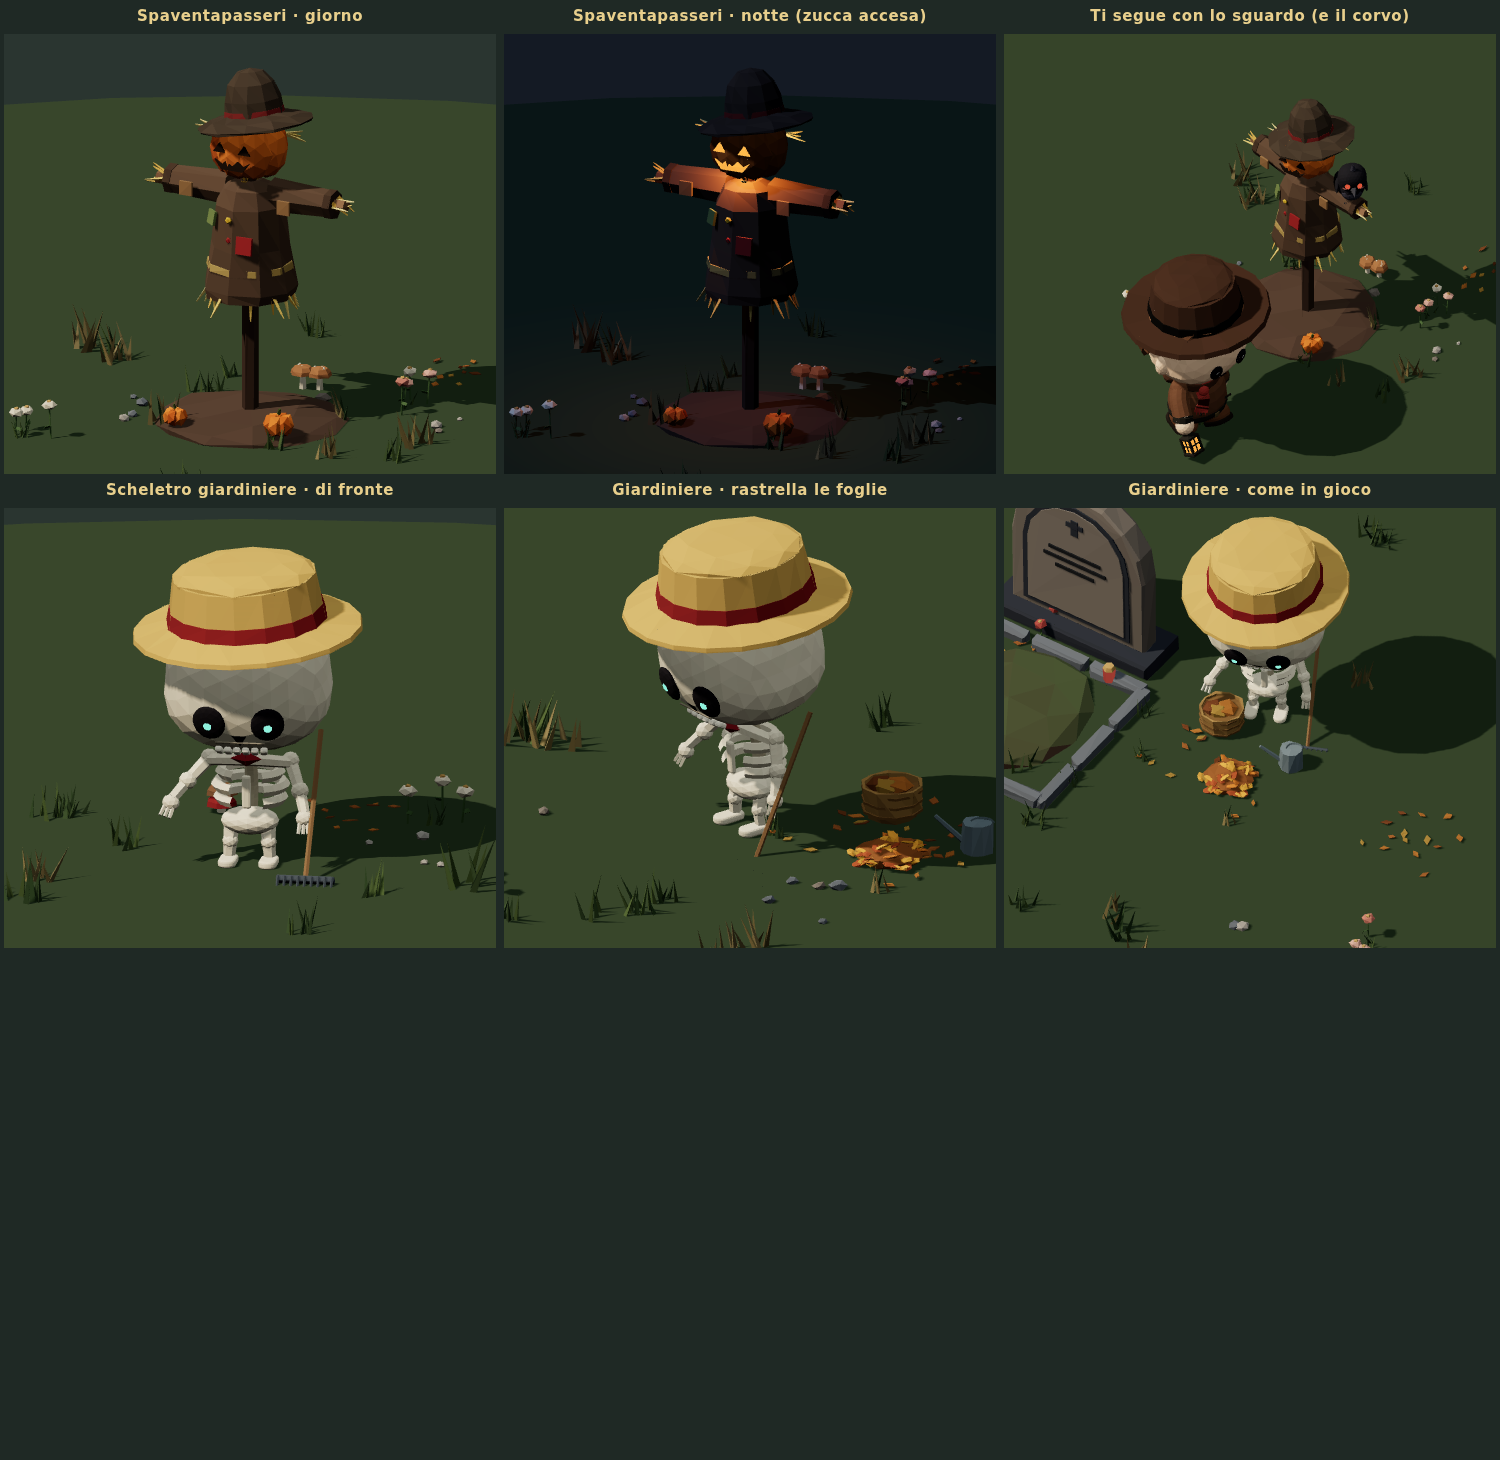
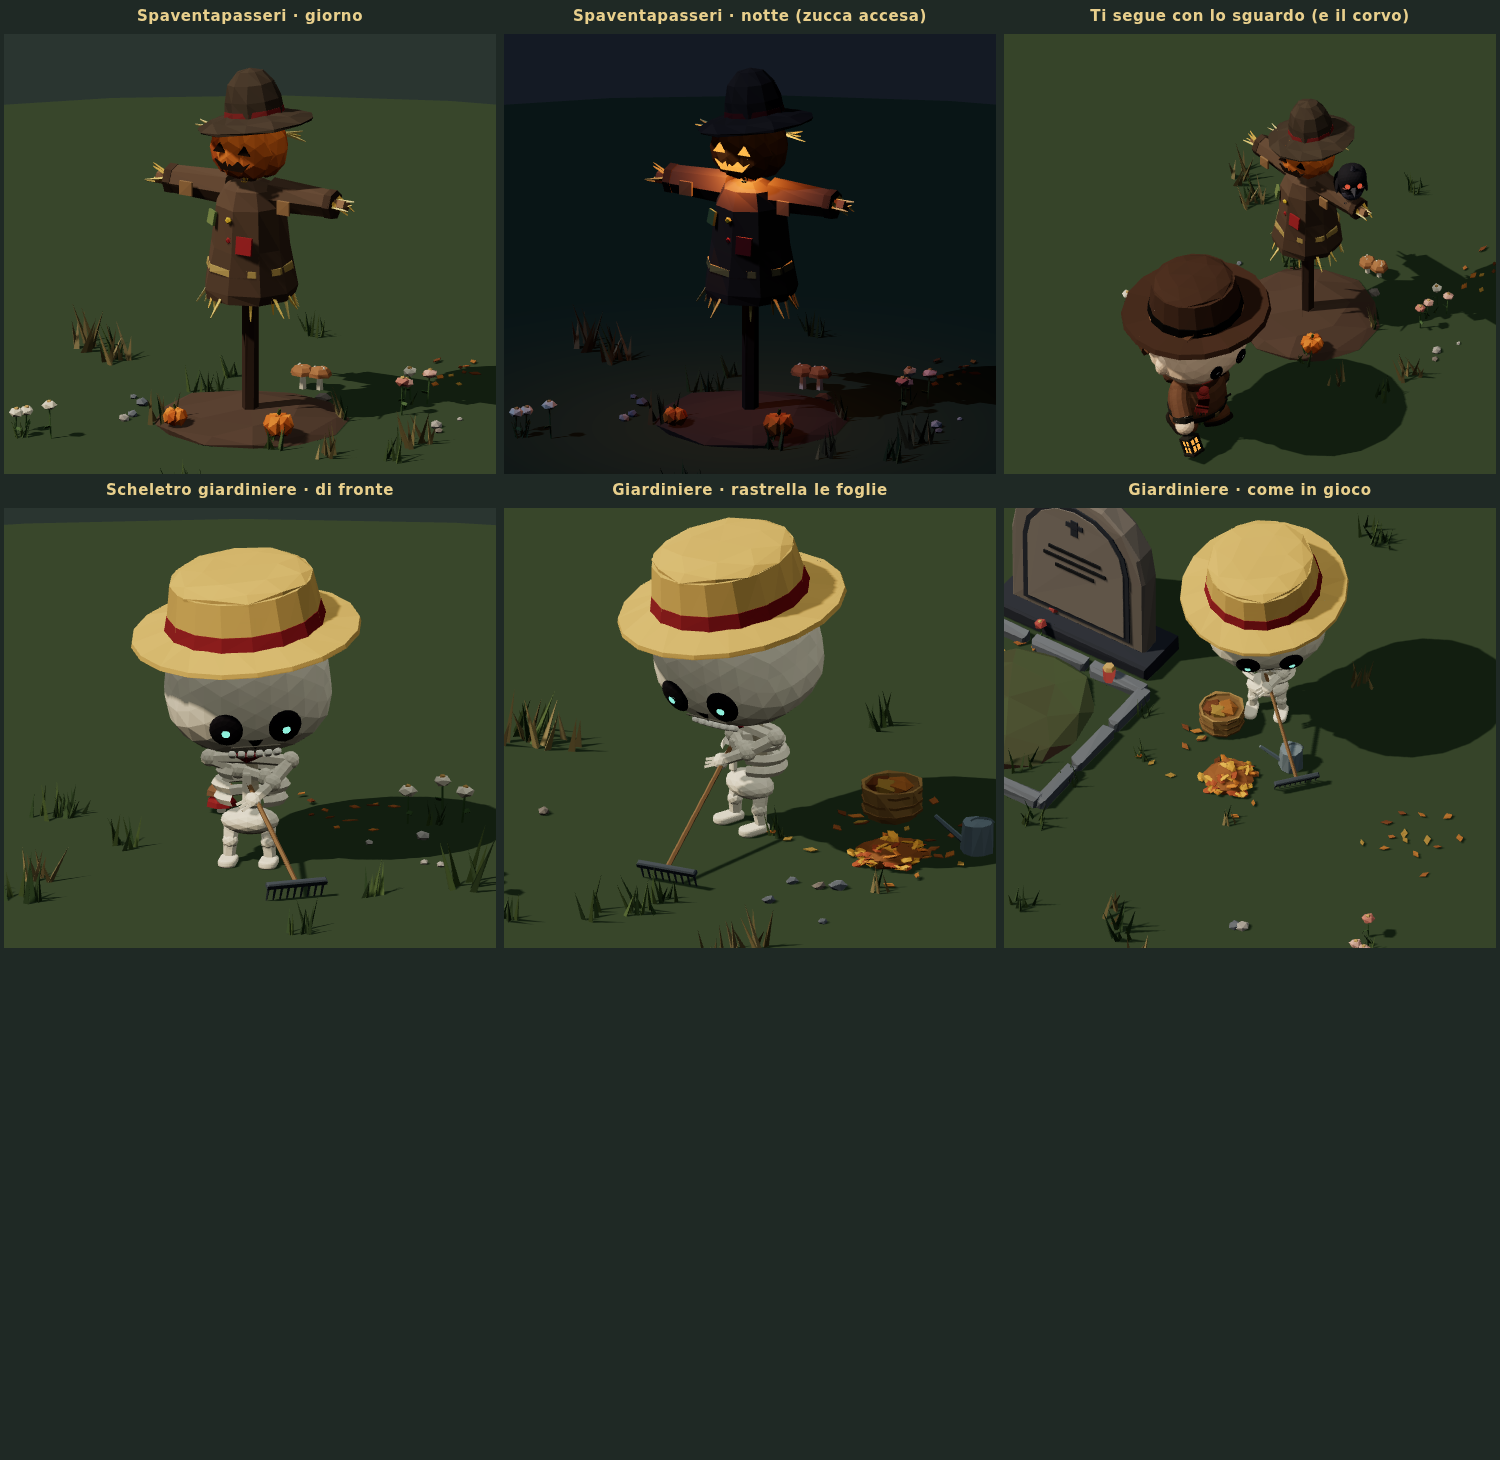
Anteprima giardiniere: rastrello impugnato a due mani, di lato, col pettine a terra
Claude-Session: https://claude.ai/code/session_01U6u5RojYrwYjZd8sSRU7em

diff --git a/Prototype-3d/src/proto/items.ts b/Prototype-3d/src/proto/items.ts
@@ -365,15 +365,35 @@ function scarecrow(lit: boolean, headYaw = 0, crow = false): THREE.Group {
   return group(s, lawn(0.7, 1.5, 12, 51));
 }
 
-/** Scheletro giardiniere in posa da rastrello (braccia avanti, busto chino). */
+/** Il braccio (perno `pv`, mano a riposo in `rest`) ruota per portare la mano sul segmento G→T del manico. */
+function reach(arm: THREE.Object3D, pv: THREE.Vector3, rest: THREE.Vector3, G: THREE.Vector3, T: THREE.Vector3, far: boolean) {
+  const len = rest.distanceTo(pv), d = T.clone().sub(G), f = G.clone().sub(pv);
+  const A = d.dot(d), B = 2 * f.dot(d), C = f.dot(f) - len * len, disc = B * B - 4 * A * C;
+  const sRoot = disc >= 0 ? (-B + (far ? 1 : -1) * Math.sqrt(disc)) / (2 * A) : -B / (2 * A);
+  const target = G.clone().addScaledVector(d, THREE.MathUtils.clamp(sRoot, 0, 1));
+  arm.quaternion.setFromUnitVectors(rest.clone().sub(pv).normalize(), target.sub(pv).normalize());
+}
+
+/**
+ * Scheletro giardiniere che rastrella: il pettine a terra davanti e di lato,
+ * il manico sale verso il fianco; la destra lo tiene in basso, la sinistra in alto.
+ * `t` è la fase del gesto (il pettine va avanti e torna).
+ */
 function gardener(t = 0): THREE.Group {
   const a = assemble(gardenerSpec(), 'giardiniere');
   const inner = a.root.children[0];
   const parts: Record<string, THREE.Object3D> = {};
   Object.keys(HUMAN_PIVOTS).forEach((k, i) => { parts[k] = inner.children[i]; });
-  const sw = Math.sin(t) * 0.25;
-  parts.armR.rotation.x = -0.3 + sw; parts.armL.rotation.x = -0.45 + sw; parts.armL.rotation.z = -0.3;
-  parts.head.rotation.x = 0.15; parts.body.rotation.x = 0.08;
+  const sw = Math.sin(t) * 0.09;
+  const G = new THREE.Vector3(0.3, 0.075, 0.62 + sw), T = new THREE.Vector3(-0.02, 0.4, 0.04 + sw * 0.4);
+  const y = T.clone().sub(G).normalize(), x = new THREE.Vector3().crossVectors(y, new THREE.Vector3(0, 1, 0)).normalize(), z = new THREE.Vector3().crossVectors(x, y);
+  const rake = inst(S.rakeLP(G.distanceTo(T) + 0.14));
+  rake.position.copy(G); rake.quaternion.setFromRotationMatrix(new THREE.Matrix4().makeBasis(x, y, z));
+  inner.add(rake);
+  const pv = (k: 'armL' | 'armR') => new THREE.Vector3(...HUMAN_PIVOTS[k]);
+  reach(parts.armR, pv('armR'), handPos(1), G, T, false);
+  reach(parts.armL, pv('armL'), handPos(-1), G, T, true);
+  parts.head.rotation.x = 0.2; parts.head.rotation.y = 0.25;
   return a.root;
 }
 

diff --git a/Prototype-3d/src/render/lowpoly/v2/npc.ts b/Prototype-3d/src/render/lowpoly/v2/npc.ts
@@ -248,20 +248,11 @@ const skeleton = (look: Partial<CustodeLook> = {}, extra: V2Extra = {}) => human
   },
 );
 
-/** Rastrello in mano (spazio della mano): manico lungo verso il basso, pettine di denti a terra. */
-function rake(lp: LP) {
-  lp.push([0, 0, 0.02], 0, -0.4);
-  lp.cyl(0, -0.3, 0, 0.012, 0.012, 0.72, 5, '#8a6a48', O);
-  lp.add(rbox(0.26, 0.03, 0.035, 0.008, 1).translate(0, -0.3, 0), '#4a535c', O);
-  for (let i = -4; i <= 4; i++) lp.add(new THREE.CylinderGeometry(0.007, 0.005, 0.09, 4).translate(i * 0.03, -0.34, 0.02), '#4a535c', O);
-  lp.pop();
-}
-
-/** Scheletro giardiniere: cappello di paglia, fazzoletto al collo, rastrello. */
+/** Scheletro giardiniere: cappello di paglia e papillon. */
 export function gardenerSpec(): KawaiiSpec {
   return skeleton(
     {},
-    { name: 'giardiniere', hat: (lp) => strawHat(lp), hatPh: 40, held: [{ side: 1, build: rake }] },
+    { name: 'giardiniere', hat: (lp) => strawHat(lp), hatPh: 40, held: [] }, // il rastrello è un oggetto a parte, impugnato a due mani
   );
 }
 

diff --git a/Prototype-3d/src/render/lowpoly/newItems3.ts b/Prototype-3d/src/render/lowpoly/newItems3.ts
@@ -115,3 +115,19 @@ export function gardenerCornerLP(): LPModel {
   grassTuft(lp, -0.38, 0.32, 0.8); weeds(lp, 0.38, 0.36, 0.6);
   return lp.build();
 }
+
+/**
+ * Rastrello (origine al centro del pettine, manico lungo +y fino a `len`):
+ * pettine orizzontale lungo x, denti verso -z (verso terra quando il manico è inclinato).
+ */
+export function rakeLP(len = 0.9): LPModel {
+  const lp = new LP('new:rake');
+  lp.cyl(0, 0, 0, 0.012, 0.011, len, 5, '#8a6a48', { jitter: 0, vary: 0.08 });
+  lp.box(0, -0.015, 0, 0.28, 0.03, 0.03, '#4a535c', { bevel: 0.006, jitter: 0 });
+  for (let i = -4; i <= 4; i++) {
+    lp.push([i * 0.032, 0, 0], 0, -Math.PI / 2);
+    lp.cyl(0, 0, 0, 0.007, 0.004, 0.08, 4, '#4a535c', { jitter: 0 });
+    lp.pop();
+  }
+  return lp.build();
+}
